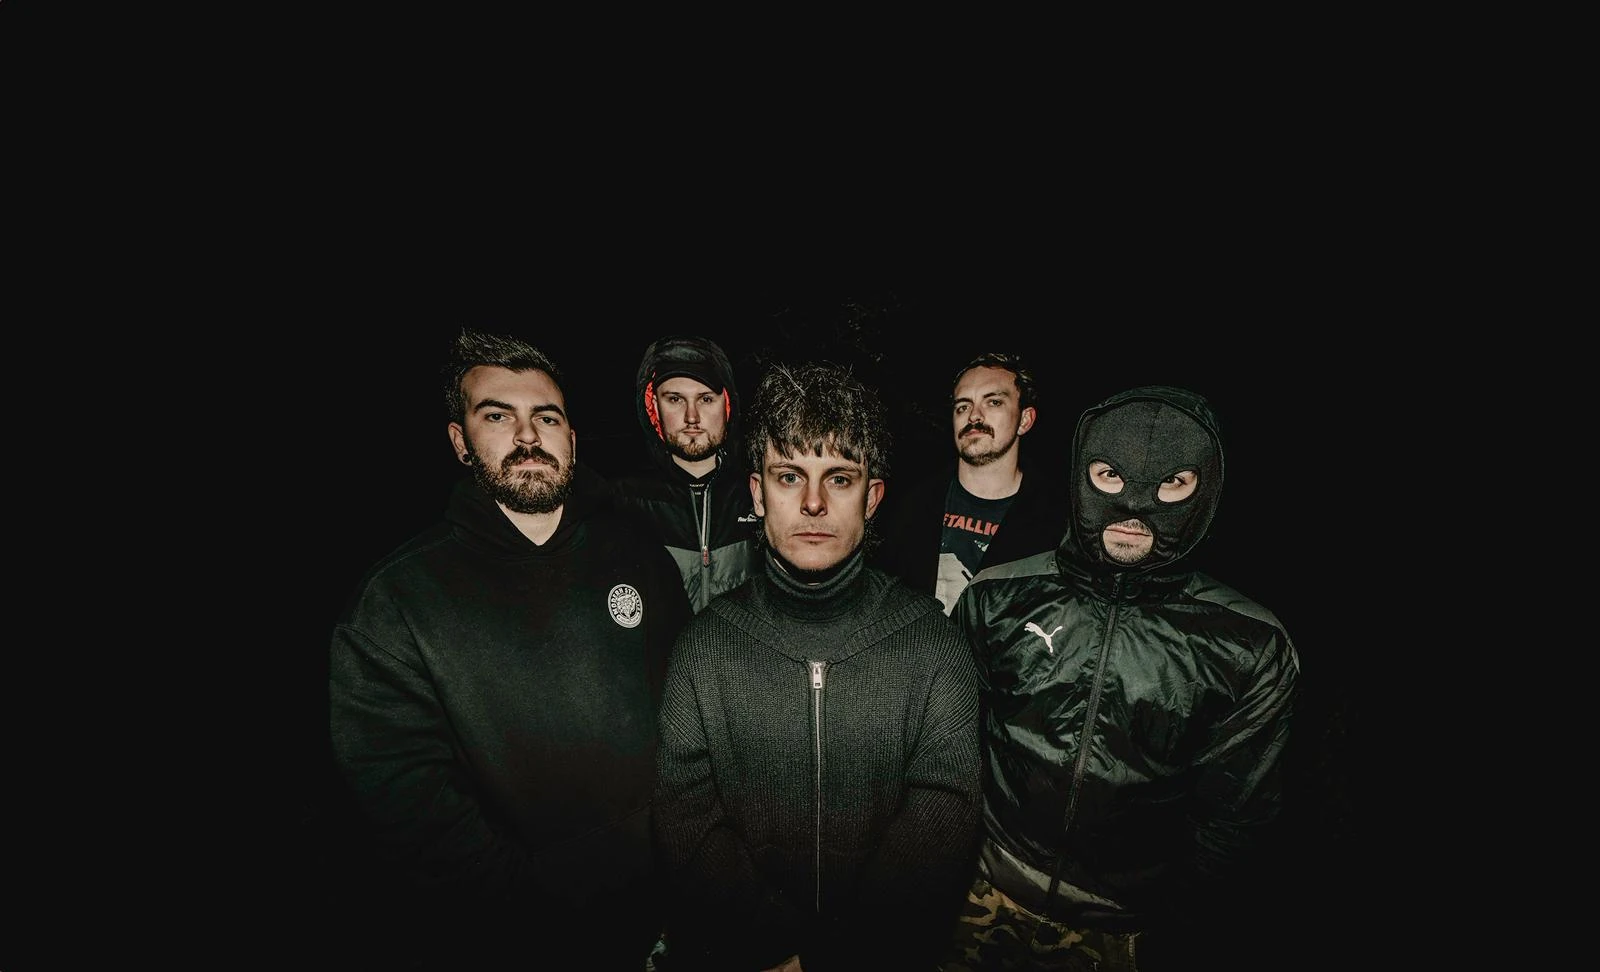
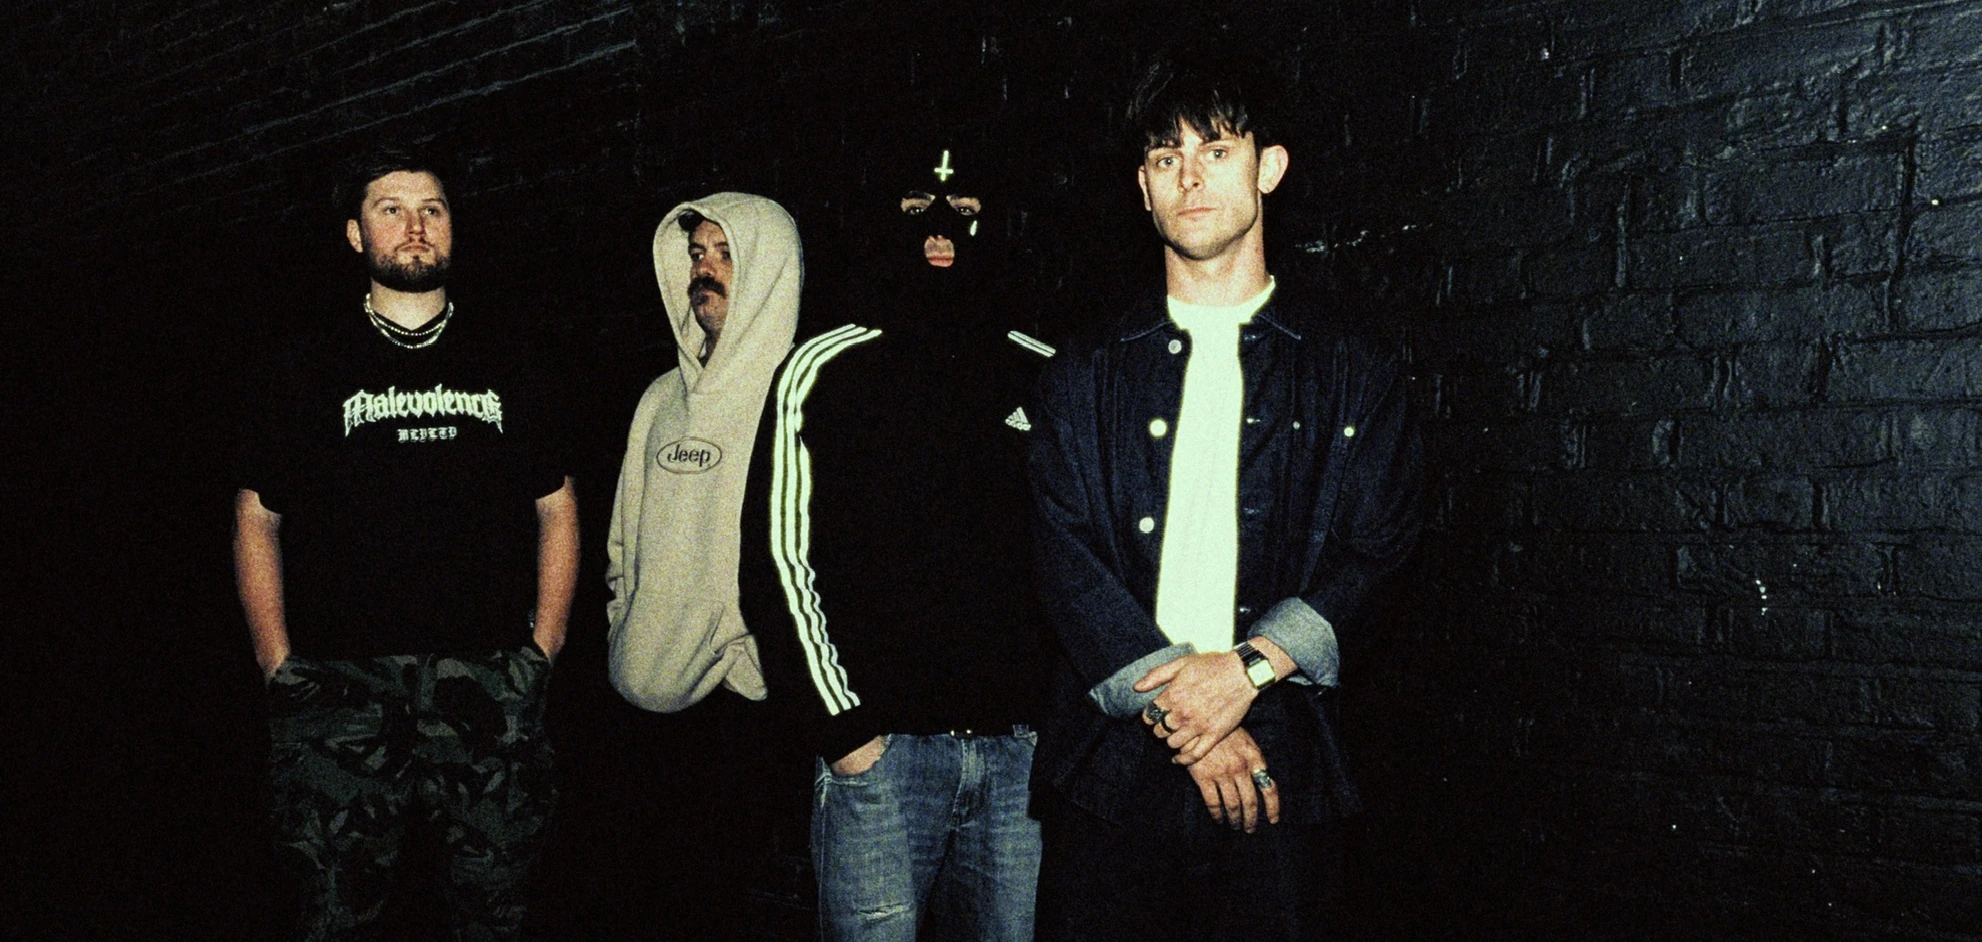
new image

diff --git a/public/styles/base.css b/public/styles/base.css
@@ -1,69 +1,70 @@
 @import "colorScheme.css";
 
-h1{
+h1 {
     font-weight: 100;
 }
 
-h2{
+h2 {
     font-weight: 100;
 }
 
-h4{
+h4 {
     font-weight: 100;
     font-size: x-large;
 }
 
-img{
+img {
     max-width: 100%;
     height: auto;
 }
 
-a{
+a {
     color: rgb(206, 198, 198);
 }
 
 
 
 /* stle controlling the box at the top wich has our band name on it */
-.sticky_player{
+.sticky_player {
     position: relative;
-    top:0px;
+    top: 0px;
     z-index: 0;
 }
 
-.sticky_player_iframe{
-}
+.sticky_player_iframe {}
 
-.header_parent{
+.header_parent {
     position: relative;
+    max-height: 50%;
 }
 
-.header{
+.header {
     position: sticky;
 }
 
 /* The band image style */
-.header_image{
+.header_image {
     width: 100%;
     position: relative;
     object-fit: fill;
     left: 0%;
     top: 0px;
     z-index: -1;
-    margin-top: -12%;
+    margin-top: -1%;
     max-width: 100%;
+    overflow: hidden;
 }
 
-.header_div{
+.header_div {
     position: absolute;
     /* background-color: rgba(0, 0, 0, 0.35); */
     z-index: 1;
     max-width: 100%;
     left: 0px;
-    top: 54%;
+    top: 10%;
 }
 
-.band_logo{
+.band_logo {
     position: relative;
     opacity: 1.0;
     width: 60%;
@@ -72,9 +73,9 @@ a{
 }
 
 /* The style for the navigation bar */
-.sticky_nav_div ul{
+.sticky_nav_div ul {
     position: absolute;
-    top:100%;
+    top: 100%;
     list-style-type: none;
     margin: 0;
     padding: 0;
@@ -82,16 +83,16 @@ a{
     list-style-type: none;
 }
 
-.sticky_nav_div{
+.sticky_nav_div {
     position: sticky;
-    left:20%;
+    left: 20%;
 }
 
-.sticky_nav_div li{
+.sticky_nav_div li {
     float: left;
 }
 
-.sticky_nav_div a{
+.sticky_nav_div a {
     float: left;
     text-align: center;
     padding: 14px 16px;
@@ -99,22 +100,21 @@ a{
     color: var(--font-color);
 }
 
-.sticky_nav_div a:hover{
+.sticky_nav_div a:hover {
     color: var(--tertiary-color);
     background-color: var(--hover-background-color);
 }
 
 /*review style that applies across React Elements*/
 
-.review_big{
+.review_big {
     font-size: 80px;
     margin-bottom: 0px;
 }
 
-.review_small{
+.review_small {
     position: relative;
     top: 0px;
     font-weight: 200;
-    left:20%;
+    left: 20%;
 }
-
